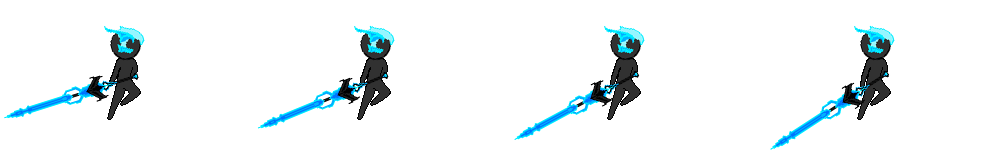
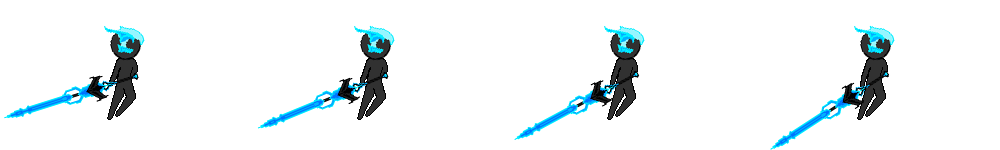
Changed falling animation

diff --git a/Character.cpp b/Character.cpp
@@ -41,37 +41,29 @@ Character::~Character() {
 }
 
 void Character::render(SDL_Renderer *renderer) {
-
     if(!animations.at(animationIndex).isRunning()) {
-
         if(std::abs(physicsbody.getVelocity().dx()) < 1 && std::abs(physicsbody.getVelocity().dy()) < 1) {
-
             animationIndex = IDLE;
             animations.at(animationIndex).start();
         }
-        else if(physicsbody.getVelocity().dy() < -10) {
-
+        else if(physicsbody.getVelocity().dy() < -10 && animationIndex != FALLING) {
             animationIndex = FALLING;
             animations.at(animationIndex).start();
         }
     }
 
-    if(skillIndex >= 0 &&
-        animationIndex == skillIndex + SKILLS_START && animations.at(animationIndex).isRunning()) {
+    if(skillIndex >= 0 && animationIndex == skillIndex + SKILLS_START && animations.at(animationIndex).isRunning()) {
 
         if(animations.at(animationIndex).getCurrentFrame() == skills.at(skillIndex).velStartFrame) {
-
             if(physicsbody.getDirection() == LEFT) {
                 skillVelocity.setDx(skills.at(skillIndex).skillVelocity.dx());
             }
             else if(physicsbody.getDirection() == RIGHT) {
                 skillVelocity.setDx(-skills.at(skillIndex).skillVelocity.dx());
             }
-
             skillVelocity.setDy(skills.at(skillIndex).skillVelocity.dy());
         }
         else if(animations.at(animationIndex).getCurrentFrame() == skills.at(skillIndex).velEndFrame) {
-
             skillVelocity.setDx(0);
         }
     }
@@ -292,7 +284,7 @@ void Character::setYVelocity(int dy) {
     physicsbody.setYVelocity(dy);
 
     if(skillIndex <= 0 || !animations.at(skillIndex + SKILLS_START).isRunning()) {
-        if(physicsbody.getVelocity().dy() < -25) {
+        if(physicsbody.getVelocity().dy() < -25 && animationIndex != FALLING) {
             animations.at(animationIndex).stop();
             animationIndex = FALLING;
             animations.at(animationIndex).start();
